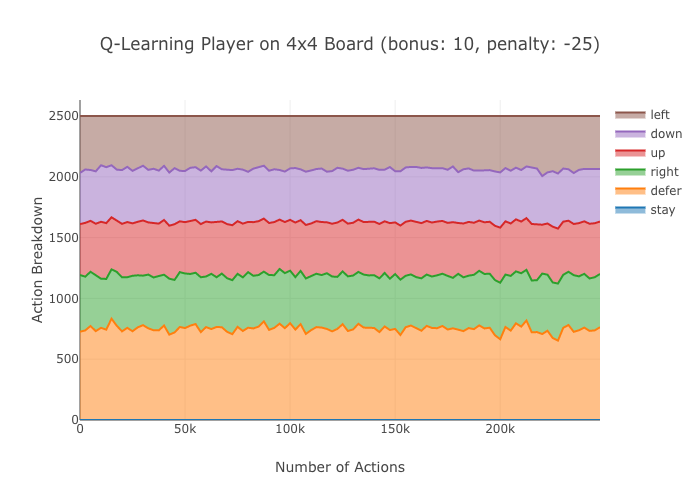
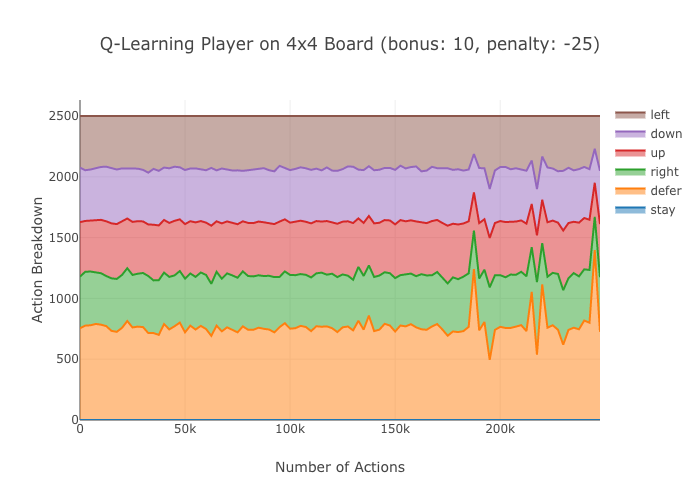
adding collective invasions and defers

Changed region(s): [[0.12, 0.3, 0.87, 0.72]]

diff --git a/state_of_nature.py b/state_of_nature.py
@@ -80,7 +80,7 @@ def run_state_of_nature(n_steps, bin_size, player_types, board_size, bonus, pena
     batched_moves = []
     batched_prev_states = []
     override_moves = []
-    defer_is_legal = False
+    defer_is_legal = True
 
     for step in range(1, n_steps + 1):
         cur_state = game.get_cur_state()
@@ -109,7 +109,9 @@ def run_state_of_nature(n_steps, bin_size, player_types, board_size, bonus, pena
                     ind_cur_state = cur_state[:(board_size ** 2)] + [was_invaded]
 
                     # Strategy 2: Punishment / Reward by the Sovereign
-                    if isinstance(player, LOLAPlayer):
+                    if isinstance(player, QLPlayer) and not isinstance(player, LOLAPlayer):
+                        delta = player.update_Q(ind_prev_state, 3.25, "defer", ind_cur_state, verbose=argument.verbose)
+                    elif isinstance(player, LOLAPlayer):
                         delta = player.update_Q(ind_prev_state, 25, "defer", ind_cur_state, verbose=argument.verbose)
 
                     rewards[player].append(25)
@@ -126,20 +128,20 @@ def run_state_of_nature(n_steps, bin_size, player_types, board_size, bonus, pena
         player_id = player_ids[turn]
 
         # Initial vote to determine whether defer will be legal
-        all_lola_players = bool(player_types.count("LOLA") == len(player_types))
-        if player_id == "P0" and all_lola_players:
-            players_who_deferred = 0
-            for p in players:
-                a = p.act(cur_state, player_ids, board_size, True)
-                if a == "defer":
-                    players_who_deferred += 1
+        # all_lola_players = bool(player_types.count("LOLA") == len(player_types))
+        # if player_id == "P0" and all_lola_players:
+        #     players_who_deferred = 0
+        #     for p in players:
+        #         a = p.act(cur_state, player_ids, board_size, True)
+        #         if a == "defer":
+        #             players_who_deferred += 1
 
-            if players_who_deferred > len(players) / 2:
-                defer_is_legal = True
-            else:
-                defer_is_legal = False
-        elif player_id == "P0" and all_lola_players == 0:
-            defer_is_legal = True
+        #     if players_who_deferred > len(players) / 2:
+        #         defer_is_legal = True
+        #     else:
+        #         defer_is_legal = False
+        # elif player_id == "P0" and all_lola_players == False:
+        #     defer_is_legal = True
 
         a = player.act(cur_state, player_ids, board_size, defer_is_legal)
 

diff --git a/params.py b/params.py
@@ -1,5 +1,5 @@
 PARAMS = {
-    'plot_type': 'box_n_steps',
+    'plot_type': 'action_breakdown',
     'plot_params': {
         'box_n_steps': {
             'metric': 'Percent Invasions of Total Moves',
@@ -34,7 +34,7 @@ PARAMS = {
             'invaded_penalty': -25,
             'farming': True,
             'plot_x_name': 'Number of Game Steps',
-            'metric': 'Collective Score',
+            'metric': 'Successful Defers',
         },
         'action_breakdown': {
             'no_hp_runs': ['Q-Learning', 'Q-Learning', 'Q-Learning', 'Q-Learning'],

diff --git a/README.md b/README.md
@@ -39,6 +39,14 @@ Q-Learning vs LOLA Action Breakdown
 ![ql_actions](https://github.com/wlong0827/state_of_nature/blob/master/assets/ql_actions.png)
 ![lola_actions](https://github.com/wlong0827/state_of_nature/blob/master/assets/lola_actions.png)
 
+Comparative Collective Invasions
+
+![invasions](https://github.com/wlong0827/state_of_nature/blob/master/assets/invasions.png)
+
+Comparative Successful Defers
+
+![defers](https://github.com/wlong0827/state_of_nature/blob/master/assets/defers.png)
+
 ### Social Dilemma Matrix Game
 
 |   |               C              |               D              |
